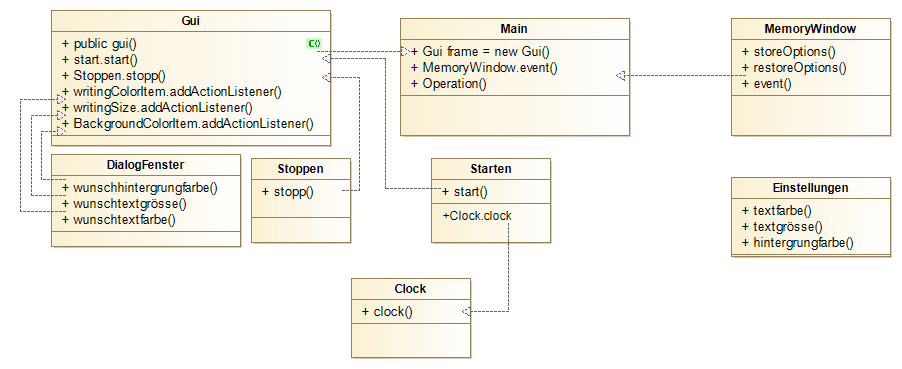
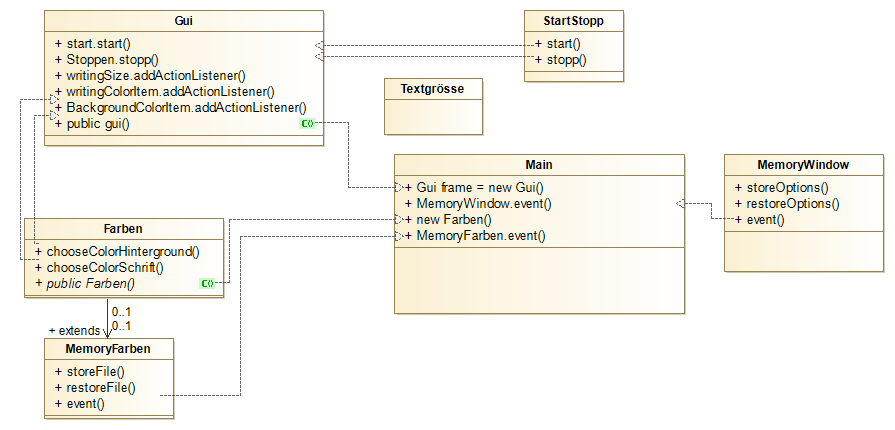
UML KlassenDiagramm

diff --git a/src/main/java/Uhr/Main.java b/src/main/java/Uhr/Main.java
@@ -18,8 +18,8 @@ public class Main {
 			    
 			    
 			    MemoryFarben.frm =frame;
-			    Farben.lab = Gui.timeF; 
-			    Farben.event();
+			    Farben.lab = StartStopp.timeF; 
+			    MemoryFarben.event();
 			    new Farben();
 			        
 					
